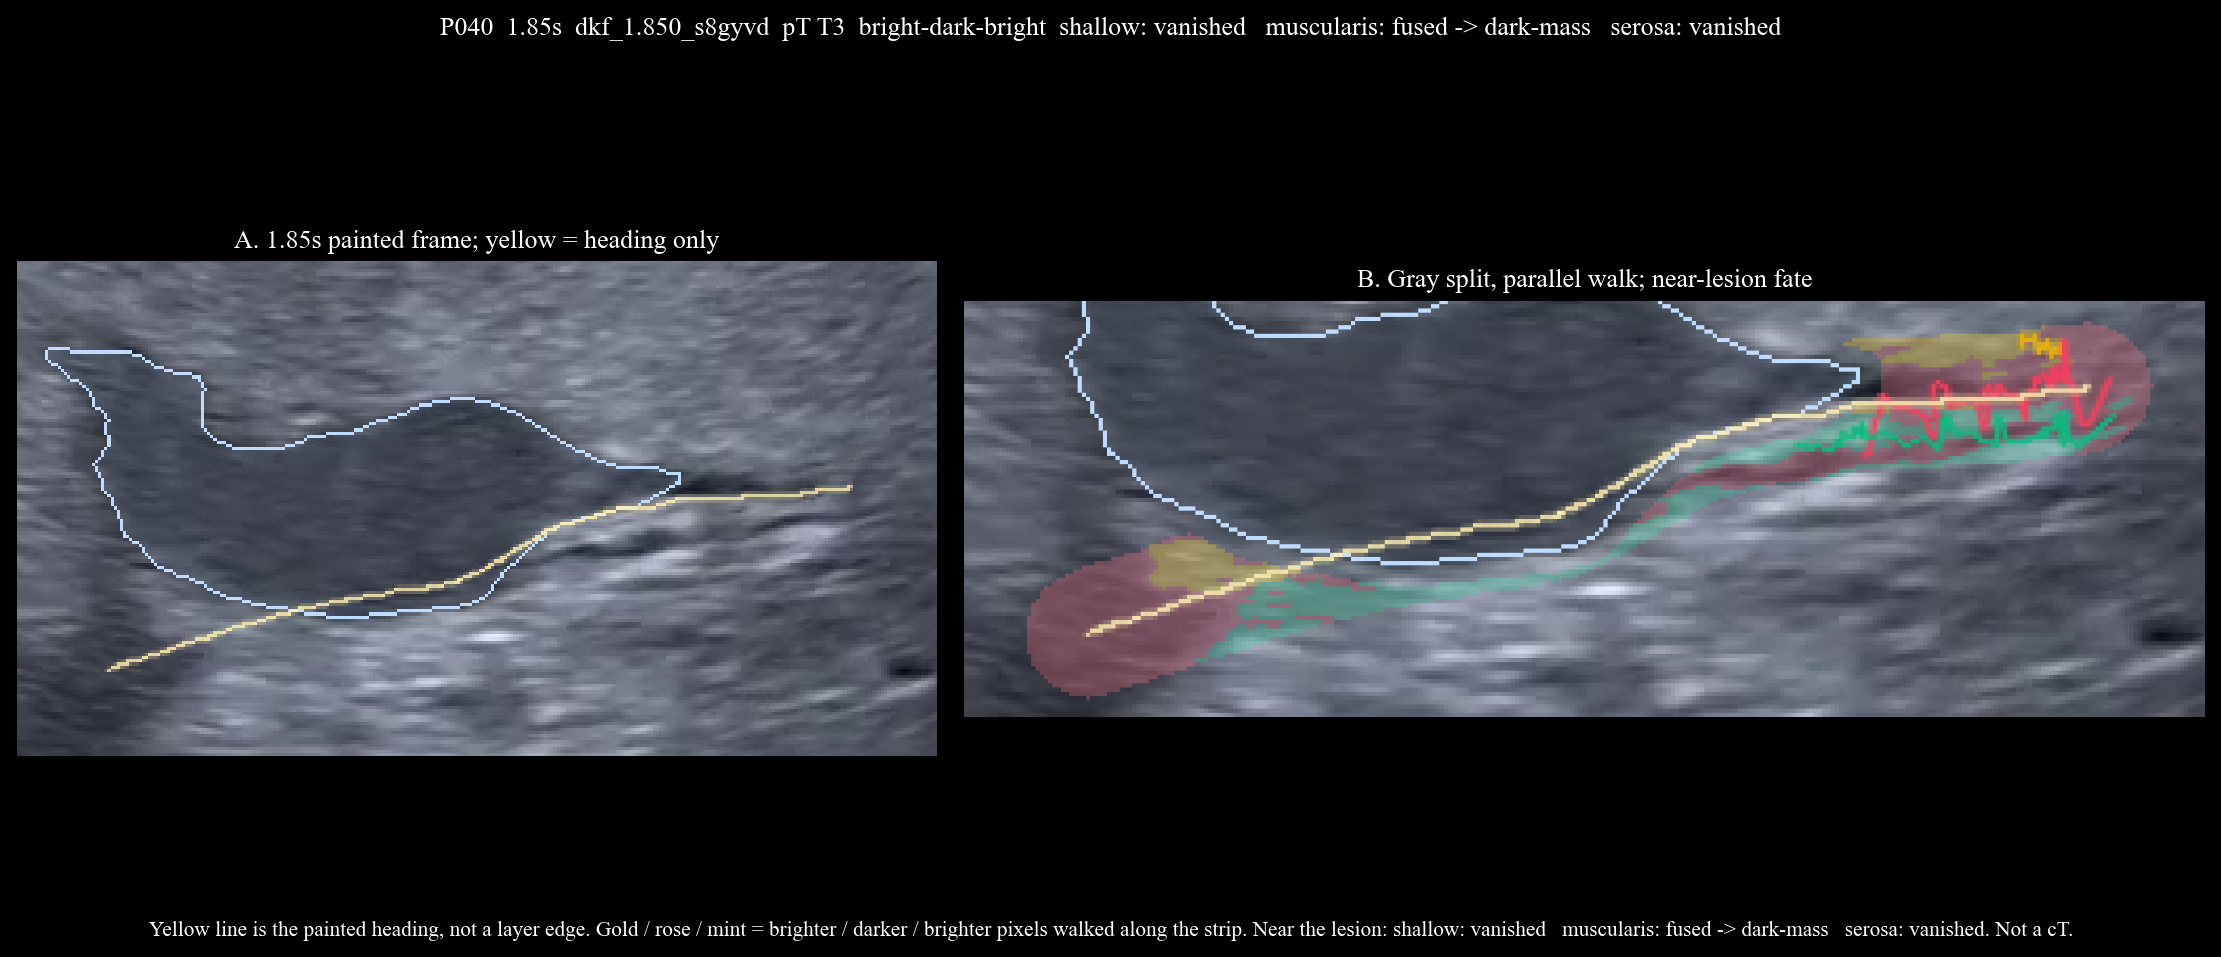
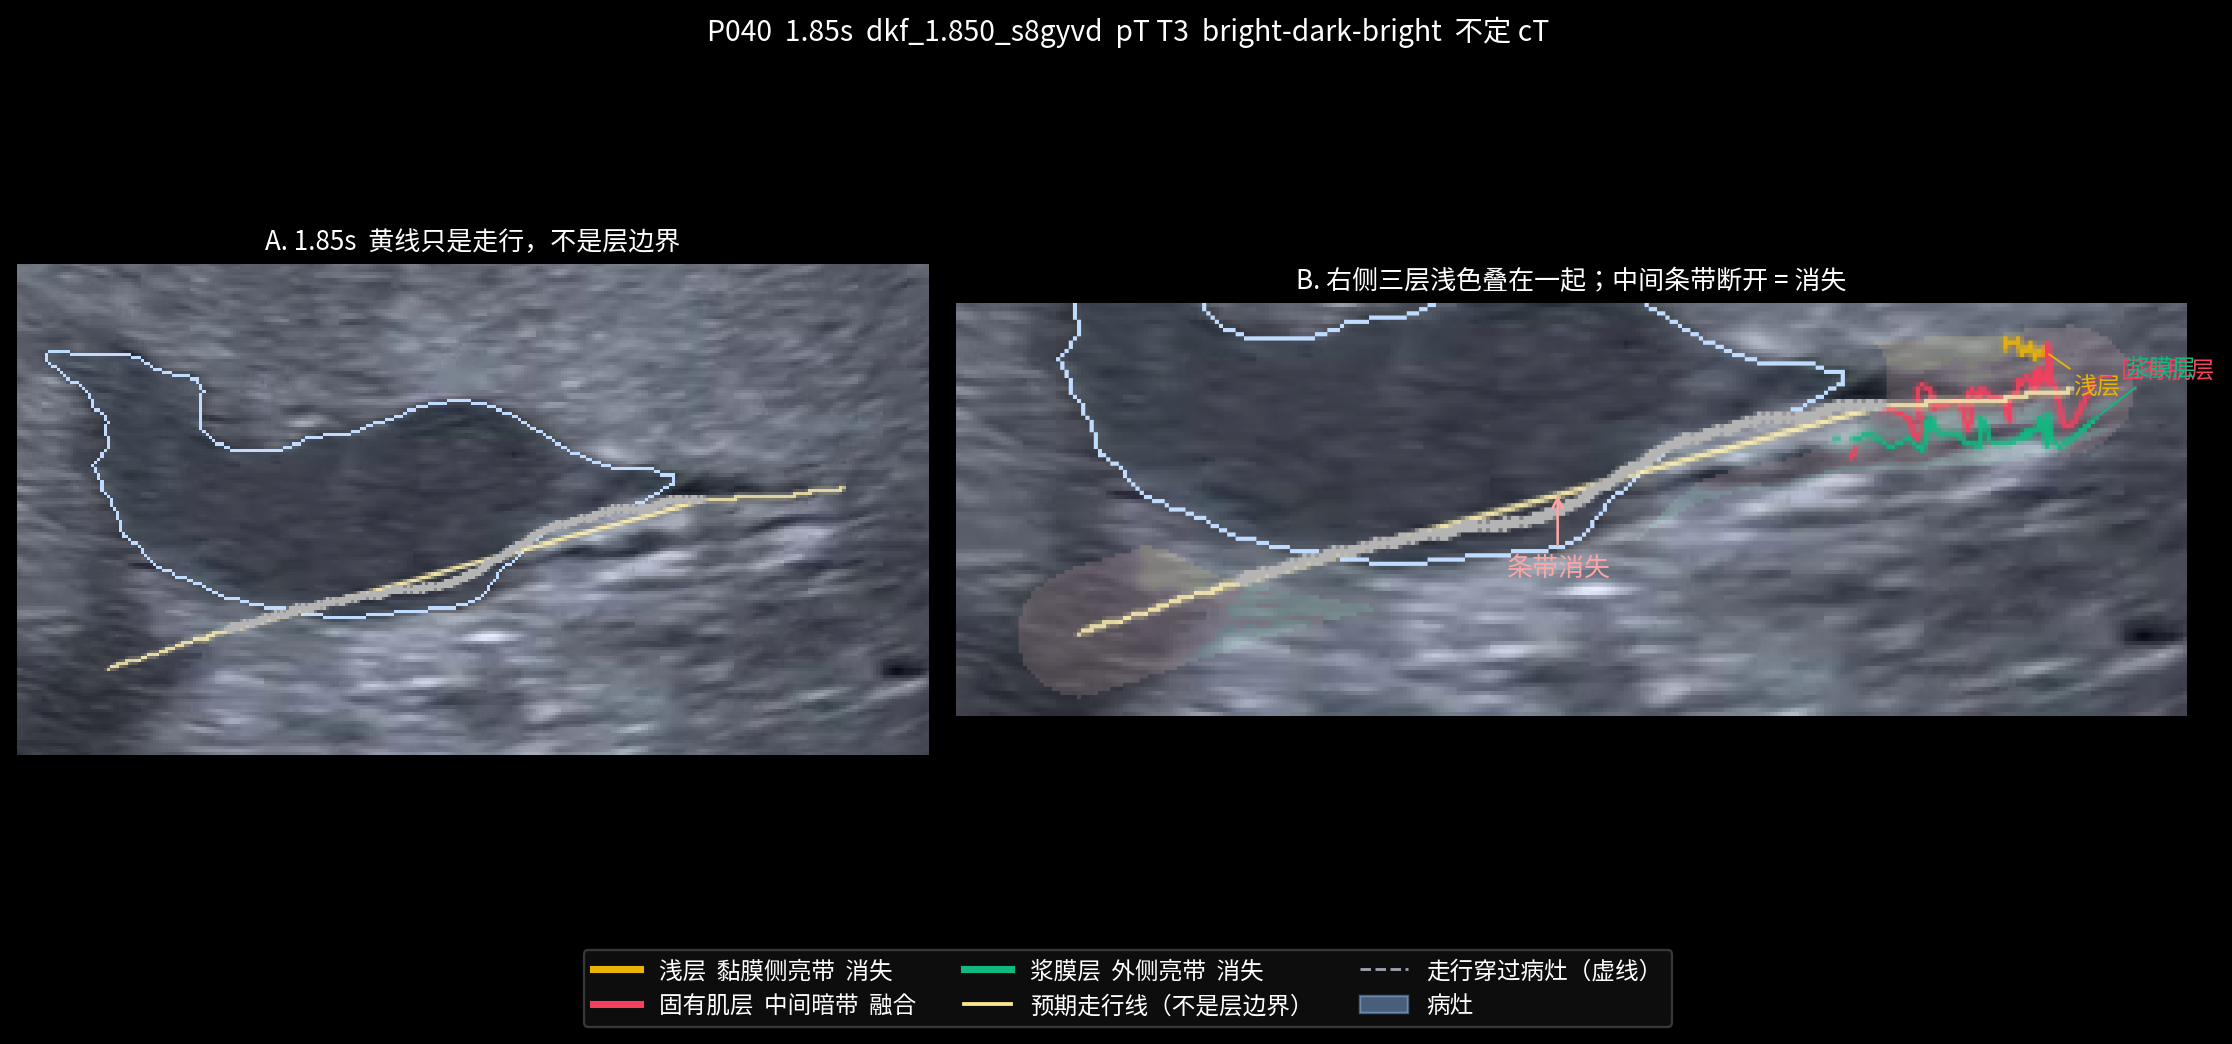
Make P040 layer colors paler and add a Chinese layer legend.
The middle gap is marked as vanished; the right-hand belts stay stacked but lighter so the gray wall stays visible.

diff --git a/scripts/render_wall_layer_thin_bands.py b/scripts/render_wall_layer_thin_bands.py
@@ -25,11 +25,18 @@ ROOT = Path(__file__).resolve().parents[1]
 sys.path.insert(0, str(ROOT / "scripts"))
 sys.path.insert(0, str(ROOT / "pipeline"))
 
+from matplotlib.font_manager import FontProperties
+from matplotlib.lines import Line2D
+from matplotlib.patches import Patch
+
 from wall_lesion_aware_cluster import (  # noqa: E402
     DEFAULT_BRUSH,
+    FATE_ZH,
+    LAYER_NAMES_ZH,
     as_xy,
     cluster_brush_band,
     densify_polyline,
+    dilate_mask,
     to_gray,
 )
 
@@ -44,18 +51,27 @@ DINO_CKPT = (
 
 LESION_BLUE = (191, 219, 254)
 LAYER_RGB = {
-    0: (250, 204, 21),
-    1: (251, 113, 133),
-    2: (52, 211, 153),
+    0: (253, 230, 138),
+    1: (254, 202, 202),
+    2: (167, 243, 208),
 }
 RIDGE_RGB = {
     0: (234, 179, 8),
     1: (244, 63, 94),
     2: (16, 185, 129),
 }
+LAYER_HEX = {0: "#eab308", 1: "#f43f5e", 2: "#10b981"}
 WALL = (254, 240, 180)
-LAYER_BLEND = 0.30
-LESION_BLEND = 0.14
+LAYER_BLEND = 0.16
+LESION_BLEND = 0.12
+GAP_PX = 10
+CJK_PATH = "/usr/share/fonts/opentype/noto/NotoSansCJK-Regular.ttc"
+CJK = FontProperties(fname=CJK_PATH, size=10)
+LAYER_LEGEND = (
+    (0, "shallow", "浅层", "黏膜侧亮带"),
+    (1, "muscularis", "固有肌层", "中间暗带"),
+    (2, "serosa", "浆膜层", "外侧亮带"),
+)
 
 # Tight pads. P008 lesion sits on the lower wall; drop the empty upper sector.
 CROP_HINT = {
@@ -139,32 +155,87 @@ def overlay_blue(rgb: np.ndarray, mask: np.ndarray, alpha: float = LESION_BLEND)
     return np.clip(out, 0, 255).astype(np.uint8)
 
 
-def overlay_ridges(rgb: np.ndarray, polylines: dict, origin: tuple[int, int] = (0, 0)) -> np.ndarray:
+def overlay_ridges(rgb: np.ndarray, polylines: dict, origin: tuple[int, int] = (0, 0), gap: np.ndarray | None = None) -> np.ndarray:
     out = rgb.copy()
     ox, oy = origin
     names = ("shallow", "muscularis", "serosa")
+    height, width = out.shape[:2]
     for lab, name in enumerate(names):
         pts = np.asarray(polylines.get(name) or [], dtype=np.float32)
         if len(pts) < 2:
             continue
         shifted = np.round(pts - np.array([ox, oy], dtype=np.float32)).astype(np.int32)
-        cv2.polylines(out, [shifted], False, RIDGE_RGB[lab], 1, cv2.LINE_AA)
+        if gap is not None:
+            keep_pts = []
+            for x, y in shifted.tolist():
+                if 0 <= x < width and 0 <= y < height and gap[y, x] > 0:
+                    if len(keep_pts) >= 2:
+                        cv2.polylines(out, [np.asarray(keep_pts, dtype=np.int32)], False, RIDGE_RGB[lab], 1, cv2.LINE_AA)
+                    keep_pts = []
+                    continue
+                keep_pts.append([x, y])
+            shifted = np.asarray(keep_pts, dtype=np.int32) if keep_pts else np.zeros((0, 2), dtype=np.int32)
+        if len(shifted) >= 2:
+            cv2.polylines(out, [shifted], False, RIDGE_RGB[lab], 1, cv2.LINE_AA)
     return out
 
 
-def overlay_layers(rgb: np.ndarray, xs, ys, labels) -> np.ndarray:
+def overlay_layers(rgb: np.ndarray, xs, ys, labels, gap: np.ndarray | None = None) -> np.ndarray:
     out = rgb.astype(np.float32)
     xs = np.asarray(xs, dtype=np.int32)
     ys = np.asarray(ys, dtype=np.int32)
     labels = np.asarray(labels, dtype=np.int32)
     h, w = out.shape[:2]
     ok = (xs >= 0) & (ys >= 0) & (xs < w) & (ys < h) & (labels >= 0)
+    if gap is not None:
+        ok = ok & (gap[np.clip(ys, 0, h - 1), np.clip(xs, 0, w - 1)] == 0)
     for lab, color in LAYER_RGB.items():
         sel = ok & (labels == lab)
         if not sel.any():
             continue
         out[ys[sel], xs[sel]] = (1.0 - LAYER_BLEND) * out[ys[sel], xs[sel]] + LAYER_BLEND * np.array(color, dtype=np.float32)
     return np.clip(out, 0, 255).astype(np.uint8)
+
+
+def draw_heading(rgb: np.ndarray, wall: np.ndarray, lesion_mask: np.ndarray) -> np.ndarray:
+    """Solid heading on normal wall, dashed through the lesion so the gap is obvious."""
+    out = rgb.copy()
+    wall = as_xy(wall)
+    if len(wall) < 2:
+        return out
+    dense = densify_polyline(wall, 2.0)
+    gap = dilate_mask(lesion_mask, GAP_PX)
+    h, w = gap.shape[:2]
+    solid, dashed = [], []
+    for point in dense:
+        x = int(round(float(point[0])))
+        y = int(round(float(point[1])))
+        hit = 0 <= x < w and 0 <= y < h and gap[y, x] > 0
+        (dashed if hit else solid).append([x, y])
+    if len(solid) >= 2:
+        cv2.polylines(out, [np.asarray(solid, dtype=np.int32)], False, WALL, 1, cv2.LINE_AA)
+    for i, point in enumerate(dashed):
+        if i % 4 < 2:
+            cv2.circle(out, (int(point[0]), int(point[1])), 1, (180, 180, 180), -1, cv2.LINE_AA)
+    return out
+
+
+def vanish_xy(wall: np.ndarray, lesion_mask: np.ndarray) -> tuple[float, float] | None:
+    wall = as_xy(wall)
+    if len(wall) < 2 or lesion_mask is None:
+        return None
+    gap = dilate_mask(lesion_mask, GAP_PX)
+    h, w = gap.shape[:2]
+    hits = []
+    for point in densify_polyline(wall, 2.0):
+        x = int(round(float(point[0])))
+        y = int(round(float(point[1])))
+        if 0 <= x < w and 0 <= y < h and gap[y, x] > 0:
+            hits.append([float(x), float(y)])
+    if not hits:
+        return None
+    arr = np.asarray(hits, dtype=np.float32)
+    return float(arr[:, 0].mean()), float(arr[:, 1].mean())
 
 
 def wall_strip(rgb: np.ndarray, wall: np.ndarray, pad: int = 22) -> tuple[int, int, int, int]:
@@ -372,56 +443,100 @@ def render_case(meta: dict, seg: RoiSegmenter, out_dir: Path, brush: float) -> d
         method="kmeans1d_gray", fit_side="right", assign_lesion=False,
     )
 
+    gap = dilate_mask(crop_mask, GAP_PX)
     panel_a = overlay_blue(crop_rgb, crop_mask)
-    if len(wall_crop) >= 2:
-        cv2.polylines(panel_a, [np.round(wall_crop).astype(np.int32)], False, WALL, 1, cv2.LINE_AA)
+    panel_a = draw_heading(panel_a, wall_crop, crop_mask)
 
     labeled = overlay_blue(crop_rgb.copy(), crop_mask)
     if arm is not None and getattr(arm, "status", "") == "ok":
-        labeled = overlay_layers(labeled, arm.xs, arm.ys, arm.labels)
-        labeled = overlay_ridges(labeled, getattr(arm, "layer_polylines", {}) or {})
-    if len(wall_crop) >= 2:
-        cv2.polylines(labeled, [np.round(wall_crop).astype(np.int32)], False, WALL, 1, cv2.LINE_AA)
+        labeled = overlay_layers(labeled, arm.xs, arm.ys, arm.labels, gap=gap)
+        labeled = overlay_ridges(labeled, getattr(arm, "layer_polylines", {}) or {}, gap=gap)
+    labeled = draw_heading(labeled, wall_crop, crop_mask)
     sx1, sy1, sx2, sy2 = wall_strip(labeled, wall_crop, pad=20)
     strip = labeled[sy1:sy2, sx1:sx2]
+    scale = 4
     panel_b = cv2.resize(
         strip,
-        (strip.shape[1] * 4, strip.shape[0] * 4),
+        (strip.shape[1] * scale, strip.shape[0] * scale),
         interpolation=cv2.INTER_NEAREST,
     )
 
     time_sec = meta.get("time_sec")
     kf = str(meta.get("zml_keyframe_id") or "")
     fates = list(getattr(arm, "fates", None) or [])
-    fate_txt = "   ".join(
-        f"{item.get('id')}: {item.get('status')}"
-        + (f" -> {item.get('fuse_with')}" if item.get("fuse_with") and item.get("fuse_with") != item.get("id") else "")
-        for item in fates
-    ) or "no layer fate"
-    fig, axes = plt.subplots(1, 2, figsize=(13.2, 5.6), gridspec_kw={"width_ratios": [1.0, 1.35]})
+    fate_by_id = {str(item.get("id")): item for item in fates}
+    fig, axes = plt.subplots(1, 2, figsize=(13.4, 6.2), gridspec_kw={"width_ratios": [1.0, 1.35]})
     axes[0].imshow(panel_a)
-    axes[0].set_title(f"A. {time_sec}s painted frame; yellow = heading only", fontsize=11)
+    axes[0].set_title(f"A. {time_sec}s  黄线只是走行，不是层边界", fontproperties=CJK, fontsize=11)
     axes[0].axis("off")
     axes[1].imshow(panel_b)
-    axes[1].set_title("B. Gray split, parallel walk; near-lesion fate", fontsize=11)
+    axes[1].set_title("B. 右侧三层浅色叠在一起；中间条带断开 = 消失", fontproperties=CJK, fontsize=11)
     axes[1].axis("off")
+
+    def to_b(x: float, y: float) -> tuple[float, float]:
+        return (x - sx1) * scale, (y - sy1) * scale
+
+    polylines = getattr(arm, "layer_polylines", {}) or {}
+    for lab, key, zh, _hint in LAYER_LEGEND:
+        pts = np.asarray(polylines.get(key) or [], dtype=np.float32)
+        if len(pts) < 2:
+            continue
+        right = pts[int(np.argmax(pts[:, 0]))]
+        axes[1].annotate(
+            zh,
+            xy=to_b(float(right[0]), float(right[1])),
+            xytext=(12, (-18, 0, 18)[lab]),
+            textcoords="offset points",
+            color=LAYER_HEX[lab],
+            fontproperties=CJK,
+            fontsize=10,
+            arrowprops={"arrowstyle": "-", "color": LAYER_HEX[lab], "lw": 0.8},
+        )
+    mid = vanish_xy(wall_crop, crop_mask)
+    if mid is not None:
+        axes[1].annotate(
+            "条带消失",
+            xy=to_b(mid[0], mid[1]),
+            xytext=(0, -36),
+            textcoords="offset points",
+            color="#fca5a5",
+            fontproperties=CJK,
+            fontsize=11,
+            ha="center",
+            arrowprops={"arrowstyle": "->", "color": "#fca5a5", "lw": 1.1},
+        )
+
+    handles = []
+    for lab, key, zh, hint in LAYER_LEGEND:
+        fate = fate_by_id.get(key) or {}
+        status = FATE_ZH.get(str(fate.get("status") or ""), str(fate.get("status") or ""))
+        handles.append(Line2D(
+            [0], [0], color=LAYER_HEX[lab], lw=3,
+            label=f"{zh}  {hint}  {status}",
+        ))
+    handles.append(Line2D([0], [0], color="#fde68a", lw=1.6, label="预期走行线（不是层边界）"))
+    handles.append(Line2D([0], [0], color="#9ca3af", lw=1.2, linestyle="--", label="走行穿过病灶（虚线）"))
+    handles.append(Patch(facecolor="#93c5fd", edgecolor="#93c5fd", alpha=0.45, label="病灶"))
+    fig.legend(
+        handles=handles,
+        loc="lower center",
+        ncol=3,
+        frameon=True,
+        facecolor="#111111",
+        edgecolor="#444444",
+        labelcolor="white",
+        prop=CJK,
+        bbox_to_anchor=(0.5, 0.01),
+    )
     area = int((crop_mask > 0).sum())
     fig.suptitle(
         f"{meta.get('display_id')}  {time_sec}s  {kf}  pT {meta.get('pT_ref') or '?'}  "
-        f"{getattr(arm, 'pattern', '') or ''}  {fate_txt}",
-        fontsize=11,
+        f"{getattr(arm, 'pattern', '') or ''}  不定 cT",
+        fontproperties=CJK,
+        fontsize=12,
         y=0.98,
     )
-    fig.text(
-        0.5,
-        0.015,
-        f"Yellow line is the painted heading, not a layer edge. "
-        f"Gold / rose / mint = brighter / darker / brighter pixels walked along the strip. "
-        f"Near the lesion: {fate_txt or 'n/a'}. Not a cT.",
-        ha="center",
-        fontsize=9,
-    )
-    fig.tight_layout(rect=[0, 0.05, 1, 0.93])
+    fig.tight_layout(rect=[0, 0.14, 1, 0.94])
     out_dir.mkdir(parents=True, exist_ok=True)
     dest = out_dir / f"{meta.get('case_id')}_thin_bands.png"
     fig.savefig(dest, dpi=170, bbox_inches="tight")

diff --git a/docs/PROJECT_CHANGELOG.md b/docs/PROJECT_CHANGELOG.md
@@ -2,6 +2,14 @@
 
 This file records material project changes, their validation, and deployment state. Do not add patient identifiers, credentials, tokens, private URLs, or sensitive clinical data.
 
+## 2026-08-29, P040 paler stacked bands plus layer legend
+
+- Scope: `scripts/render_wall_layer_thin_bands.py --case P040`. Panel `results/visualizations/error_cases/CASE-040_thin_bands.png`.
+- Reason: The three right-hand belts sat on top of each other with colors too strong. The middle gap was easy to miss, and there was no legend for 浅层 / 固有肌层 / 浆膜层.
+- Key changes: Overlay alpha is lower. Display gap around the mass is wider; heading is dashed through the lesion and marked 条带消失. Legend and right-end callouts name each layer. Does not unlock cT.
+- Validation: Offline P040 re-render.
+- Deployment: none (offline figure).
+
 ## 2026-08-29, P040 sensitive gray bands and near-lesion fate
 
 - Scope: `scripts/wall_lesion_aware_cluster.py` (`sensitive`, `walk_layer_fate`), `scripts/render_wall_layer_thin_bands.py --case P040`.
